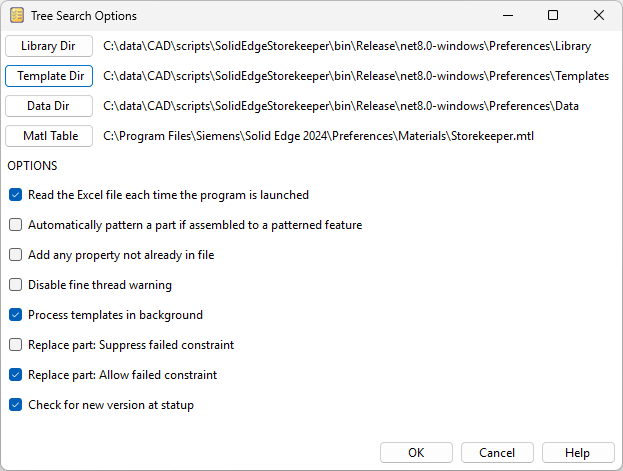
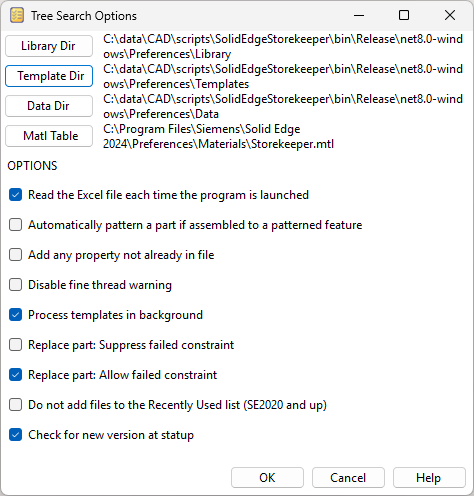
See release_notes.md for V2025.3

Changed region(s): [[0.0, 0.0, 1.0, 0.8917], [0.5021, 0.9214, 1.0, 1.0]]

diff --git a/Readme.md b/Readme.md
@@ -7,13 +7,13 @@
 
 ## CREDITS
 
-**Contributors**
+**Contributors**  
 @[Francesco Arfilli]
 
-**Beta Testers**
+**Beta Testers**  
 @hawcad, @rob.wolbrink7456, @[Francesco Arfilli], @pedja, @TeeVar, @Seva
 
-**Helpful feedback and bug reports**
+**Helpful feedback and bug reports**  
 @SeanCresswell, @[Francesco Arfilli], @arekkul, @[Imre Szucs], @64Pacific, @Seva, @hawcad, @rob.wolbrink7456, @pedja, @TeeVar
 
 *Feedback from users*
@@ -111,7 +111,7 @@ The program needs to know where to store the standard parts, and for fastener-li
 </p>
 
 - **LIBRARY DIRECTORY**  
-The library is where the standard parts are stored.  The default is in `Preferences\Library` under the `Storekeeper` main directory.  
+The library is where the standard parts you create are stored.  The default is in `Preferences\Library` under the `Storekeeper` main directory.  
 
   Note it is created the first time you run the program; it won't be there before that.  As noted above, if you want to access your vendor-specific standard parts, they must be in the library.  You can place them in one or more subdirectories if desired.
 
@@ -153,6 +153,9 @@ The material table is usually your normal SE material table.  However, for a qui
 	
   - `Replace part: Allow failed constraint`  
 	With the same situation as above, this option tells the program to leave the constraint in the failed state.
+	
+  - `Do not show processed files in the Most Recently Used list`  
+	Enable this option to keep the program from adding newly-generated standard parts to the Most Recently Used list.  Note this function was added to Solid Edge in version 2020.  If you are running an earlier version, this option must be disabled.
 	
   - `Check for new version at startup`  
 	If you don't need a reminder about new versions, disable the check here.

diff --git a/release_notes.md b/release_notes.md
@@ -16,7 +16,7 @@ Feel free to report bugs and/or ideas for improvement on the [<ins>**Solid Edge 
 
 ### Replace Part
 
-Contributed by **@[Francesco Arfilli]**.  Thank you!
+Contributed by **@[Francesco Arfilli].**  Thank you!
 
 Added the ability to replace selected parts in the assembly.
 
@@ -44,11 +44,17 @@ See the [<ins>**Pre-Populating the Library**</ins>](https://github.com/rmcanany/
 
 ### Other
 
-Fixed an issue where the form settings were not being saved in certain conditions. (Thank you **@TeeVar!**)
-
-Fixed an issue where moving the program to a new directory did not allow the user to access the interface to update file locations.   (Thank you again **@TeeVar!**)
-
 Fixed an issue where accessing certain file properties was causing an exception.  (Contributed by **@[Francesco Arfilli].**  Thank you!)
+
+The following were all reported by **@TeeVar**.  Thank you!
+
+- Fixed an issue where the form settings were not being saved in certain conditions.
+
+- Fixed an issue where moving the program to a new directory did not allow the user to access the interface to update file locations.  
+
+- Fixed an issue where the program was halting when Solid Edge versions prior to V2020 were being used.
+
+- Fixed an issue where new standard parts were not being saved to the `Library` directory.
 
 ## V2025.2
 
